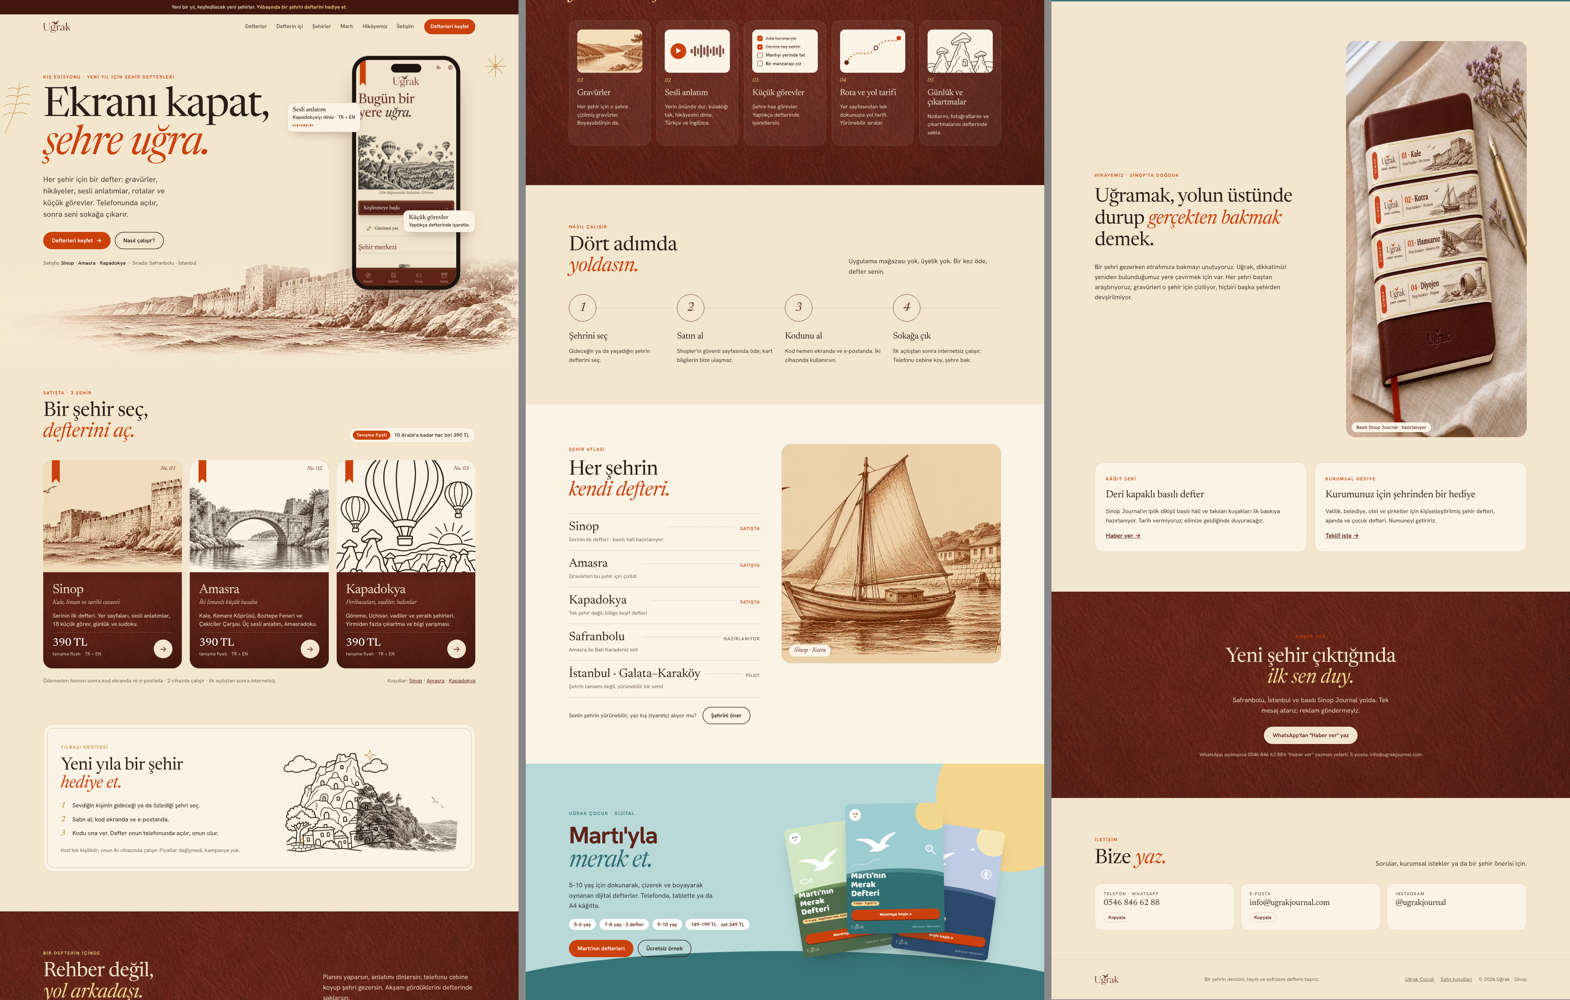
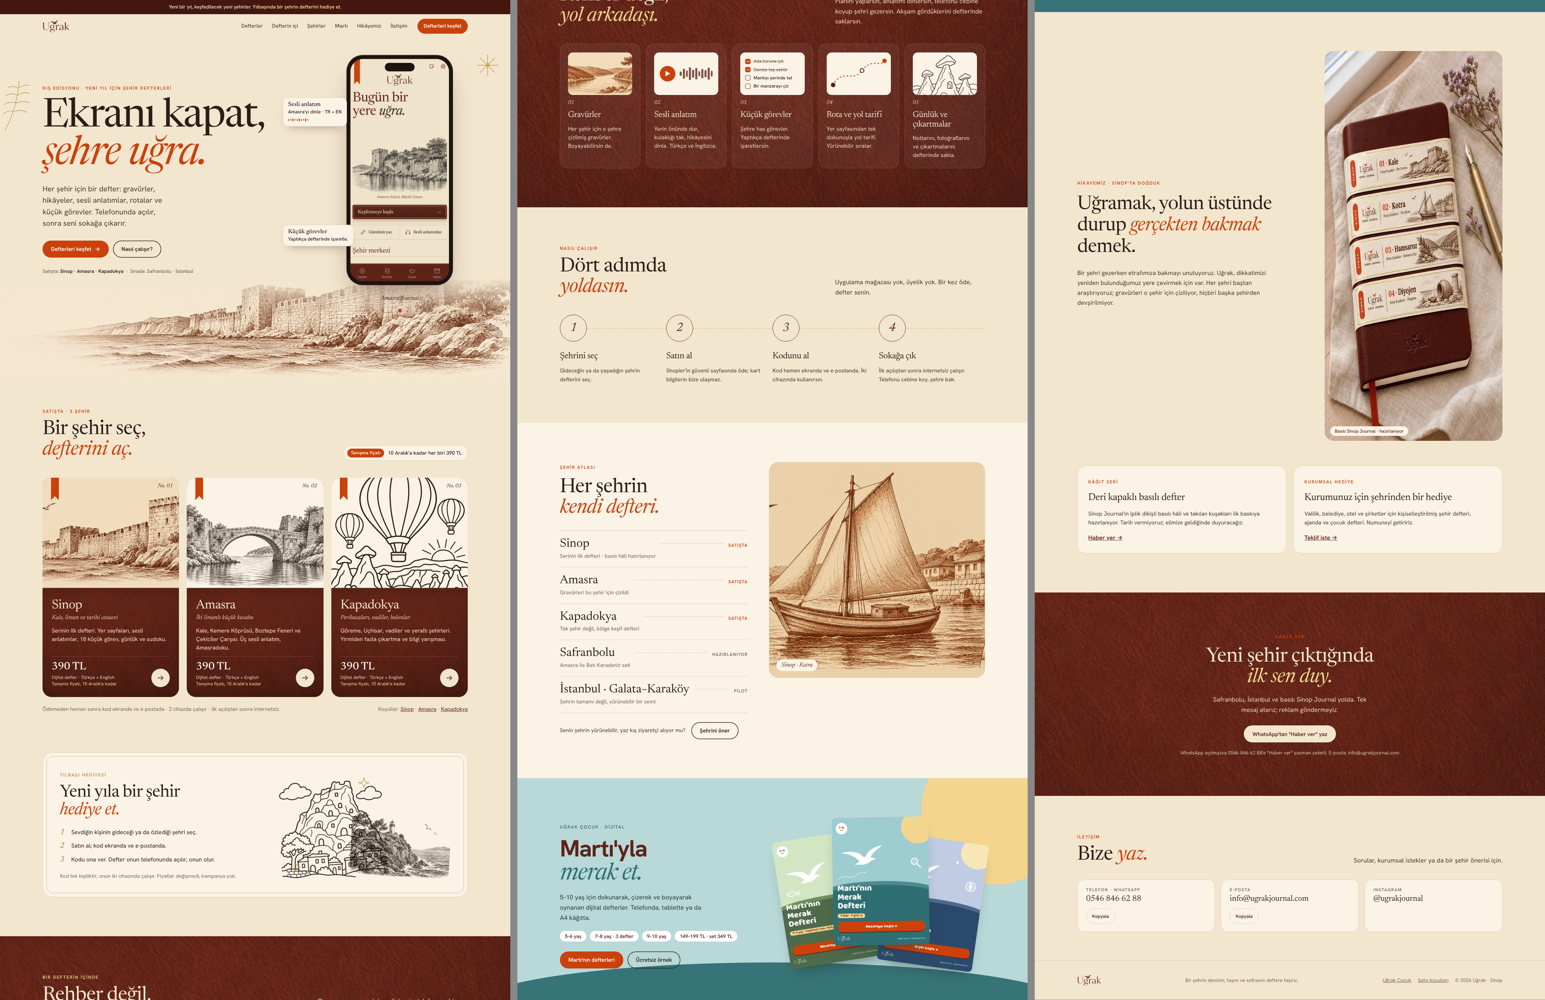
Önizleme: panel düzeltmeleri (balonlar, 6.5 sn geçiş + seçici, fiyat açıklığı, mobil yazı/dokunma, tanışma fiyatı otomatik biter)
Claude-Session: https://claude.ai/code/session_01Q83VamjWSBJz6GmystV1Hn

diff --git a/onizleme/index.html b/onizleme/index.html
@@ -59,7 +59,7 @@ header.sc{border-color:var(--cizgi)}
 .hero .ctas{display:flex;flex-wrap:wrap;gap:12px}
 .hero .ticker{margin-top:28px;font:500 14px/1.5 var(--sans);color:var(--mut)}
 .hero .ticker b{color:var(--grav);font-weight:600}
-.stage{position:relative;height:620px}
+.stage{position:relative;height:690px}
 .phone{position:absolute;right:8%;top:0;width:300px;aspect-ratio:585/1266;border-radius:46px;background:#1d1410;padding:11px;box-shadow:0 40px 80px -30px rgba(67,23,15,.55),0 0 0 1px rgba(0,0,0,.2);z-index:3;animation:float 7s ease-in-out infinite}
 .phone .scr{position:relative;width:100%;height:100%;border-radius:36px;overflow:hidden;background:var(--kagit)}
 .phone .scr img{position:absolute;inset:0;width:100%;height:100%;object-fit:cover;opacity:0;transition:opacity 1s}
@@ -68,12 +68,13 @@ header.sc{border-color:var(--cizgi)}
 @keyframes float{50%{transform:translateY(-10px)}}
 .tag{position:absolute;z-index:4;background:var(--kagit);border:1px solid var(--cizgi);border-radius:14px;padding:10px 14px;font:500 13.5px/1.35 var(--sans);box-shadow:0 14px 30px -18px rgba(67,23,15,.5)}
 .tag b{display:block;font:500 17px/1.2 var(--serif)}
-.tag.t1{left:0;top:120px}.tag.t2{right:0;bottom:140px}
+.tag.t1{left:0;top:110px}.tag.t2{left:0;bottom:160px}
 .tag .wave{display:flex;gap:3px;align-items:center;height:16px;margin-top:6px}
 .tag .wave i{width:3px;background:var(--kiremit);border-radius:2px;animation:wv 1.2s ease-in-out infinite}
 .tag .wave i:nth-child(2n){animation-delay:.2s}.tag .wave i:nth-child(3n){animation-delay:.4s}
 @keyframes wv{0%,100%{height:4px}50%{height:16px}}
-.cityname{position:absolute;right:8%;width:300px;bottom:-4px;text-align:center;font:italic 400 18px/1 var(--serif);color:var(--deri)}
+.cityname{position:absolute;right:8%;width:300px;bottom:4px;text-align:center;font:italic 400 18px/1 var(--serif);color:var(--deri)}
+.dots3{position:absolute;right:8%;width:300px;bottom:-44px;display:flex;justify-content:center;gap:4px;z-index:5;pointer-events:auto}.dots3 button{width:44px;height:44px;border:0;background:none;cursor:pointer;display:grid;place-items:center;padding:0}.dots3 button::after{content:"";width:9px;height:9px;border-radius:50%;background:rgba(94,35,24,.32);transition:background .3s,transform .3s}.dots3 button.on::after{background:var(--kiremit);transform:scale(1.2)}
 .pano{position:relative;margin-top:-70px;height:300px;z-index:1;pointer-events:none}
 .pano{-webkit-mask-image:linear-gradient(transparent 0,#000 38%);mask-image:linear-gradient(transparent 0,#000 38%)}
 .pano img{position:absolute;left:50%;bottom:0;width:min(1500px,130%);max-width:none;transform:translateX(-50%);mix-blend-mode:multiply;opacity:0;transition:opacity 1.6s}
@@ -81,8 +82,8 @@ header.sc{border-color:var(--cizgi)}
 .pano::after{content:"";position:absolute;inset:auto 0 0;height:60px;background:linear-gradient(transparent,var(--krem))}
 @media(max-width:900px){
  .hero{padding-top:28px}.hero-grid{grid-template-columns:1fr;gap:10px}
- .stage{height:520px;margin-top:10px}.phone{width:240px;left:50%;right:auto;margin-left:-120px}.cityname{left:50%;right:auto;margin-left:-120px;width:240px}
- .tag.t1{left:0;top:10px}.tag.t2{right:0;bottom:70px}.tag{font-size:12.5px;padding:8px 11px}.tag b{font-size:15px}
+ .stage{height:600px;margin-top:10px}.phone{width:240px;left:50%;right:auto;margin-left:-120px}.cityname{left:50%;right:auto;margin-left:-120px;width:240px;bottom:-30px}.dots3{left:50%;right:auto;margin-left:-120px;width:240px;bottom:-74px}
+ .stage{padding-top:0}.tag.t1{left:0;top:-6px}.tag.t2{display:none}.tag{font-size:12.5px;padding:7px 10px}.tag b{font-size:14.5px}.phone{top:46px}
  .pano{margin-top:-60px;height:170px}.pano img{width:200%}
 }
 
@@ -106,13 +107,13 @@ section{padding:110px 0}
 .city .body{padding:26px 26px 28px;display:flex;flex-direction:column;gap:12px;flex:1;background:linear-gradient(180deg,rgba(0,0,0,.0),rgba(0,0,0,.12)),url(../deri-zemin.webp) center/cover;}
 .city h3{font-size:36px;line-height:1}
 .city h3 small{display:block;font:italic 400 17px/1.3 var(--serif);color:#E8CDB6;margin-top:6px;letter-spacing:0}
-.city p{margin:0;font-size:15.5px;line-height:1.5;color:#F0DDC8}
+.city p{margin:0;font-size:16px;line-height:1.5;color:#F0DDC8}
 .city .row{display:flex;align-items:flex-end;justify-content:space-between;gap:12px;margin-top:auto;padding-top:14px;border-top:1px solid rgba(243,230,207,.2)}
 .city .price b{display:block;font:500 30px/1 var(--serif);color:#fff}
-.city .price span{font-size:12.5px;color:#E8CDB6;letter-spacing:.02em}
+.city .price span{display:block;margin-top:6px;font-size:13px;line-height:1.4;color:#E8CDB6}.city .price i{font-style:normal;color:var(--gunes)}
 .city .go{width:52px;height:52px;border-radius:50%;background:var(--krem);color:var(--deri);display:grid;place-items:center;font-size:22px;flex:none;transition:transform .25s}
 .city:hover .go{transform:rotate(-35deg)}
-.cities-foot{display:flex;justify-content:space-between;gap:16px;flex-wrap:wrap;margin-top:22px;font-size:14.5px;color:var(--mut)}
+.cities-foot{display:flex;justify-content:space-between;gap:16px;flex-wrap:wrap;margin-top:22px;font-size:15px;color:var(--mut)}
 .cities-foot a{color:var(--deri)}
 @media(max-width:980px){.cities{grid-template-columns:1fr 1fr}.cities .city:last-child{grid-column:1/-1}.cities .city:last-child .art{aspect-ratio:16/7}}
 @media(max-width:640px){.cities{display:flex;overflow-x:auto;scroll-snap-type:x mandatory;gap:14px;margin-inline:-20px;padding-inline:20px;scrollbar-width:none}.cities::-webkit-scrollbar{display:none}.city{flex:0 0 84%;scroll-snap-align:center}.cities .city:last-child .art{aspect-ratio:4/3.3}.city h3{font-size:32px}}
@@ -142,7 +143,7 @@ body.kis .gift{display:block;padding:0 0 110px}
 .f .ill{height:120px;border-radius:14px;background:var(--kagit);display:grid;place-items:center;overflow:hidden;color:var(--grav)}
 .f .ill img{width:100%;height:100%;object-fit:cover;mix-blend-mode:multiply}
 .f h3{font-size:24px;line-height:1.1}
-.f p{margin:0;font-size:15px;line-height:1.5;color:#EAD3BD}
+.f p{margin:0;font-size:16px;line-height:1.5;color:#EAD3BD}
 .f .k{font:italic 400 15px/1 var(--serif);color:var(--gunes)}
 .mini-task{display:flex;flex-direction:column;gap:7px;padding:14px;font:500 13px/1.25 var(--sans);width:100%}
 .mini-task span{display:flex;gap:8px;align-items:center}
@@ -171,7 +172,7 @@ body.kis .gift{display:block;padding:0 0 110px}
 .index{list-style:none;margin:0;padding:0;border-top:1px solid var(--cizgi)}
 .index li{display:flex;align-items:baseline;gap:14px;padding:20px 0;border-bottom:1px solid var(--cizgi)}
 .index .nm{font:400 clamp(26px,3vw,34px)/1.05 var(--serif)}
-.index .nm small{display:block;font:400 14.5px/1.4 var(--sans);color:var(--mut);margin-top:5px;letter-spacing:0}
+.index .nm small{display:block;font:400 15px/1.4 var(--sans);color:var(--mut);margin-top:5px;letter-spacing:0}
 .index .dots{flex:1;border-bottom:2px dotted var(--cizgi);transform:translateY(-8px);min-width:20px}
 .index .st2{font:600 12.5px/1 var(--sans);letter-spacing:.1em;text-transform:uppercase;white-space:nowrap}
 .st2.on{color:var(--kiremit)}.st2.yol{color:var(--mut)}
@@ -224,7 +225,7 @@ body.kis .gift{display:block;padding:0 0 110px}
 .cc{border:1px solid var(--cizgi);border-radius:20px;padding:22px 24px;background:var(--kagit);display:flex;flex-direction:column;gap:6px}
 .cc span{font:600 12px/1 var(--sans);letter-spacing:.14em;text-transform:uppercase;color:var(--mut)}
 .cc a,.cc b{font:400 23px/1.2 var(--serif);text-decoration:none;color:var(--grav)}
-.cc button{align-self:flex-start;margin-top:6px;background:none;border:1px solid var(--cizgi);border-radius:999px;padding:6px 12px;font:600 13px/1 var(--sans);color:var(--deri);cursor:pointer}
+.cc button{align-self:flex-start;margin-top:6px;min-height:44px;background:none;border:1px solid var(--cizgi);border-radius:999px;padding:0 16px;font:600 13px/1 var(--sans);color:var(--deri);cursor:pointer}
 @media(max-width:760px){.contact{grid-template-columns:1fr}}
 footer{padding:40px 0 calc(40px + env(safe-area-inset-bottom));border-top:1px solid var(--cizgi)}
 .foot{display:flex;justify-content:space-between;align-items:center;gap:20px;flex-wrap:wrap;font-size:14px;color:var(--mut)}
@@ -243,7 +244,7 @@ body.kis .hero-eyebrow-def{display:none}
 .sprig{position:absolute;pointer-events:none;color:var(--altin);opacity:.8}
 .sprig.s1{left:-6px;top:110px;width:120px}
 .sprig.s2{right:2%;top:40px;width:70px}
-@media(max-width:900px){.sprig.s1{display:none}.sprig.s2{width:44px;top:96px;right:14px}}
+@media(max-width:900px){body.kis .sprig.s1{display:none}.sprig.s2{width:44px;top:96px;right:14px}}
 </style>
 </head>
 <body>
@@ -270,7 +271,7 @@ body.kis .hero-eyebrow-def{display:none}
    <div class="tag t1"><b>Sesli anlatım</b><span id="aud">Sinop'u dinle · TR + EN</span><div class="wave"><i style="height:6px"></i><i></i><i></i><i></i><i></i><i></i><i></i><i></i><i></i><i></i></div></div>
    <div class="phone"><div class="scr"><img class="on" src="../ekran-sinop.webp" alt=""><img src="../ekran-amasra.webp" alt=""><img src="../ekran-kapadokya.webp" alt=""></div></div>
    <div class="tag t2"><b>Küçük görevler</b>Yaptıkça defterinde işaretle.</div>
-   <div class="cityname" id="cityname">Sinop Journal</div>
+   <div class="cityname" id="cityname">Sinop Journal</div><div class="dots3" role="group" aria-label="Ekran seç"><button aria-label="Sinop" class="on"></button><button aria-label="Amasra"></button><button aria-label="Kapadokya"></button></div>
   </div>
  </div>
  <div class="pano" aria-hidden="true"><img class="on" src="../g/sinop-kale.webp" alt=""></div>
@@ -280,23 +281,23 @@ body.kis .hero-eyebrow-def{display:none}
  <div class="wrap">
   <div class="sec-head rv">
    <div><span class="eyebrow">Satışta · 3 şehir</span><h2>Bir şehir seç,<br><em>defterini aç.</em></h2></div>
-   <div><span class="intro-note"><i>Tanışma fiyatı</i>10 Aralık'a kadar her biri 390 TL</span></div>
+   <div><span class="intro-note tn"><i>Tanışma fiyatı</i>10 Aralık'a kadar her biri 390 TL</span></div>
   </div>
   <div class="cities">
    <a class="city rv" href="https://sinop.ugrakjournal.com/satin-al">
     <div class="art"><img src="../g/sinop-kale.webp" alt="Sinop Kalesi gravürü" loading="lazy" style="object-position:72% 50%"><span class="ribbon"></span><span class="no">No. 01</span></div>
     <div class="body"><h3>Sinop<small>Kale, liman ve tarihi cezaevi</small></h3><p>Serinin ilk defteri. Yer sayfaları, sesli anlatımlar, 18 küçük görev, günlük ve sudoku.</p>
-     <div class="row"><div class="price"><b>390 TL</b><span>tanışma fiyatı · TR + EN</span></div><span class="go" aria-hidden="true">→</span></div></div>
+     <div class="row"><div class="price"><b class="pr">390 TL</b><span>Dijital defter · Türkçe + English<br><i class="tn">Tanışma fiyatı, 10 Aralık'a kadar</i></span></div><span class="go" aria-hidden="true">→</span></div></div>
    </a>
    <a class="city rv" href="https://amasra.ugrakjournal.com/satin-al">
     <div class="art"><img src="../g/amasra-kemere.webp" alt="Kemere Köprüsü gravürü" loading="lazy"><span class="ribbon"></span><span class="no">No. 02</span></div>
     <div class="body"><h3>Amasra<small>İki limanlı küçük kasaba</small></h3><p>Kale, Kemere Köprüsü, Boztepe Feneri ve Çekiciler Çarşısı. Üç sesli anlatım, Amasradoku.</p>
-     <div class="row"><div class="price"><b>390 TL</b><span>tanışma fiyatı · TR + EN</span></div><span class="go" aria-hidden="true">→</span></div></div>
+     <div class="row"><div class="price"><b class="pr">390 TL</b><span>Dijital defter · Türkçe + English<br><i class="tn">Tanışma fiyatı, 10 Aralık'a kadar</i></span></div><span class="go" aria-hidden="true">→</span></div></div>
    </a>
    <a class="city rv" href="https://kapadokya.ugrakjournal.com/satin-al">
     <div class="art"><img src="../g/kapadokya-balon.webp" alt="Kapadokya balonları gravürü" loading="lazy"><span class="ribbon"></span><span class="no">No. 03</span></div>
     <div class="body"><h3>Kapadokya<small>Peribacaları, vadiler, balonlar</small></h3><p>Göreme, Uçhisar, vadiler ve yeraltı şehirleri. Yirmiden fazla çıkartma ve bilgi yarışması.</p>
-     <div class="row"><div class="price"><b>390 TL</b><span>tanışma fiyatı · TR + EN</span></div><span class="go" aria-hidden="true">→</span></div></div>
+     <div class="row"><div class="price"><b class="pr">390 TL</b><span>Dijital defter · Türkçe + English<br><i class="tn">Tanışma fiyatı, 10 Aralık'a kadar</i></span></div><span class="go" aria-hidden="true">→</span></div></div>
    </a>
   </div>
   <div class="cities-foot"><span>Ödemeden hemen sonra kod ekranda ve e-postada · 2 cihazda çalışır · ilk açılıştan sonra internetsiz.</span><span>Koşullar: <a href="https://sinop.ugrakjournal.com/bilgilendirme">Sinop</a> · <a href="https://amasra.ugrakjournal.com/bilgilendirme">Amasra</a> · <a href="https://kapadokya.ugrakjournal.com/bilgilendirme">Kapadokya</a></span></div>
@@ -440,7 +441,11 @@ body.kis .hero-eyebrow-def{display:none}
  var scr=[].slice.call(document.querySelectorAll('.phone .scr img')),pan=[].slice.call(document.querySelectorAll('.pano img')),nm=['Sinop Journal','Amasra Journal','Kapadokya Journal'],cn=document.getElementById('cityname'),i=0;
  var panSet=[0,1,2];
  var au=['Sinop\'u dinle · TR + EN','Amasra\'yı dinle · TR + EN','Kapadokya\'yı dinle · TR + EN'],ae=document.getElementById('aud');
- if(!rm)setInterval(function(){scr[i].classList.remove('on');i=(i+1)%3;scr[i].classList.add('on');cn.textContent=nm[i];ae.textContent=au[i];},4200);
+ var dt=[].slice.call(document.querySelectorAll('.dots3 button'));function go(k){scr[i].classList.remove('on');dt[i].classList.remove('on');i=k;scr[i].classList.add('on');dt[i].classList.add('on');cn.textContent=nm[i];ae.textContent=au[i];}
+ var tm=rm?null:setInterval(function(){go((i+1)%3)},6500);
+ dt.forEach(function(b,k){b.addEventListener('click',function(){go(k);if(tm){clearInterval(tm);tm=null;}})});
+ // tanışma fiyatı 11 Aralık 2026'da kendiliğinden biter
+ if(d>=new Date(2026,11,11)){[].forEach.call(document.querySelectorAll('.tn'),function(e){e.style.display='none'});[].forEach.call(document.querySelectorAll('.pr'),function(e){e.textContent='790 TL'});}
  // atlas görseli
  var ai=[].slice.call(document.querySelectorAll('.atlas-art img')),cap=document.getElementById('atlascap'),caps=['Sinop · Kotra','Amasra · Kale','Kapadokya · Peribacaları','Sinop · Diyojen'];
  [].forEach.call(document.querySelectorAll('.index li'),function(li){var k=+li.dataset.img;function s(){ai.forEach(function(x,j){x.classList.toggle('on',j===k)});cap.textContent=caps[k];}li.addEventListener('mouseenter',s);li.addEventListener('focusin',s);});
